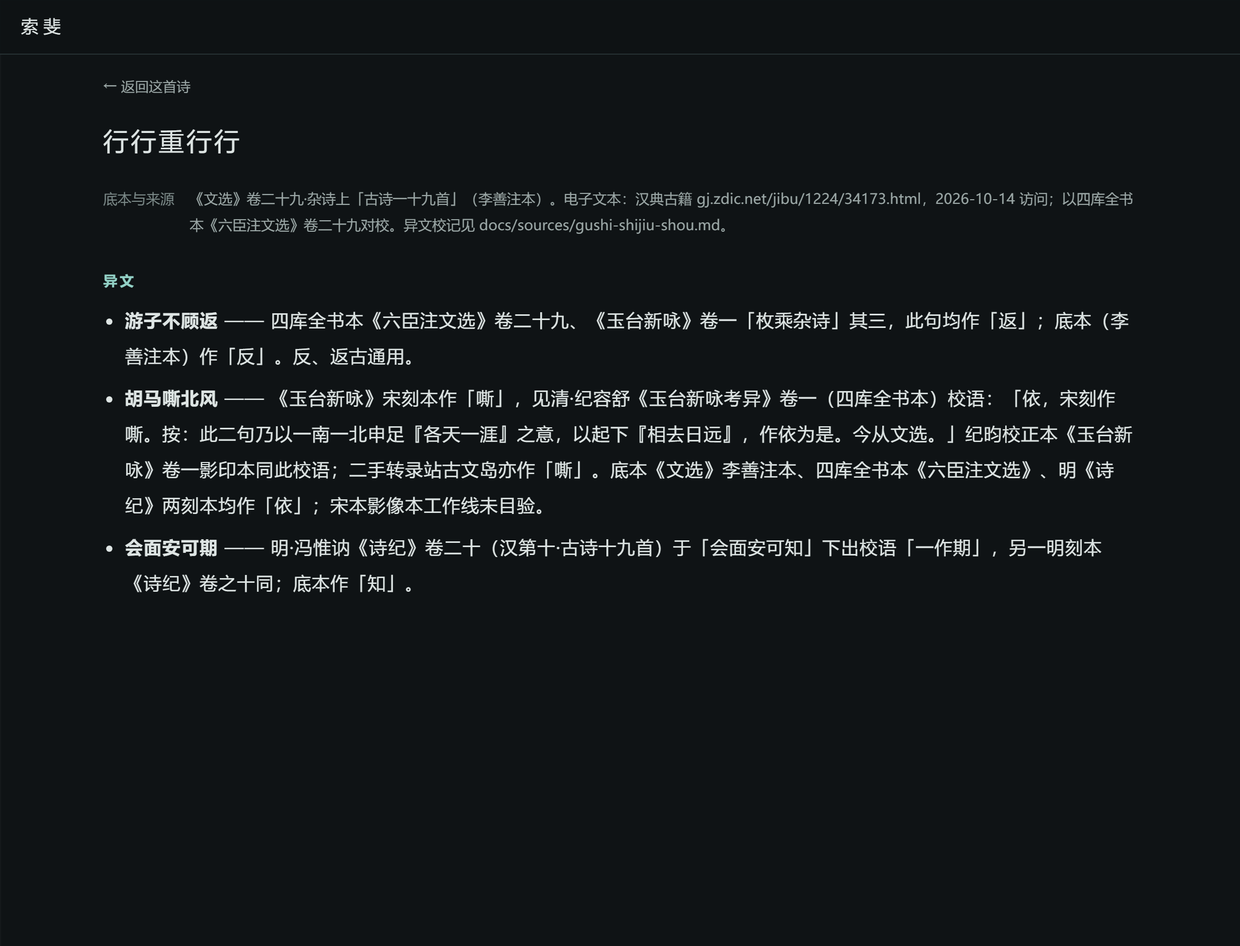
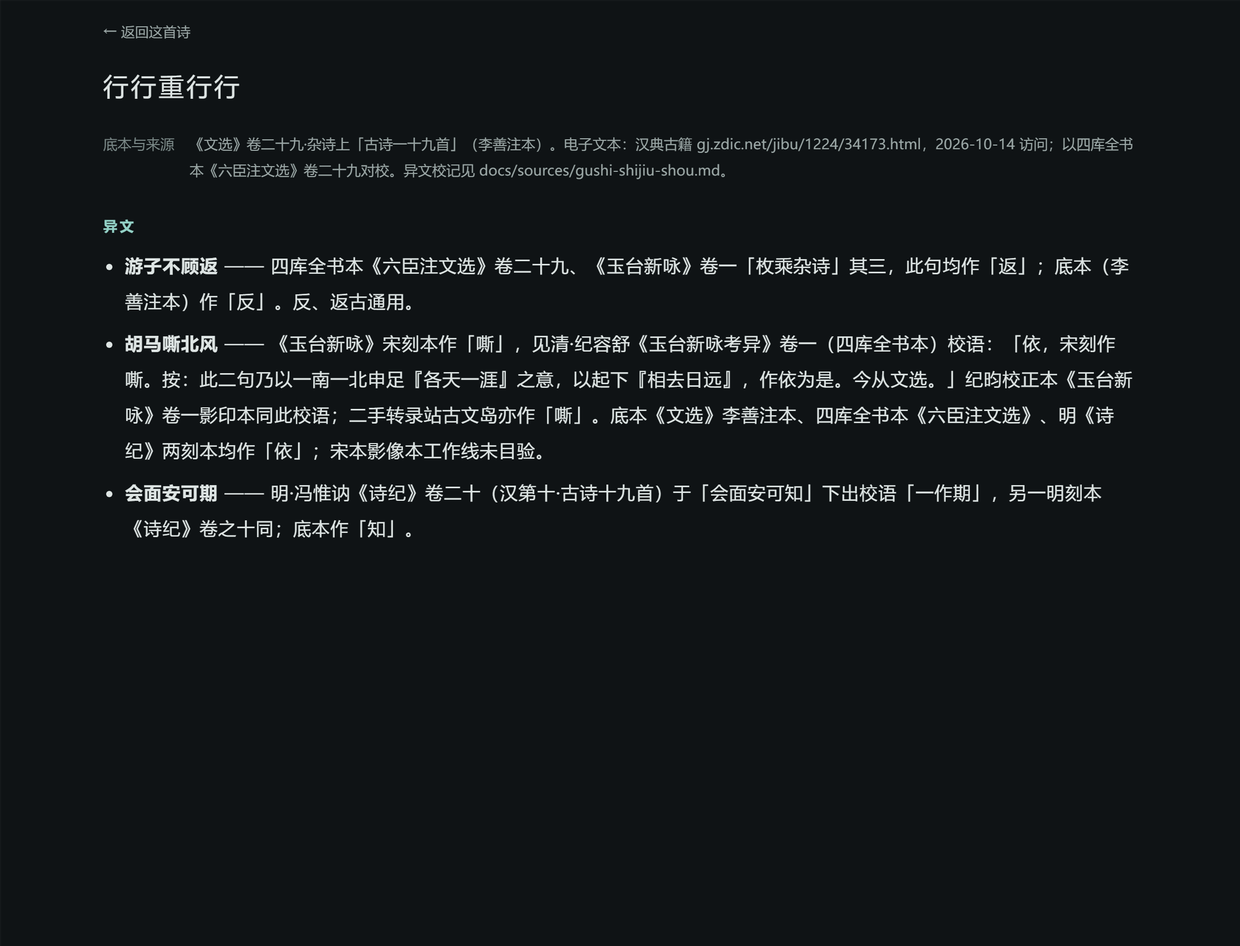
fix(web): 删除全局外壳顶栏（目录/诗/详情三页的冗余产品壳；用户预览时指出）
**偏差**：每页顶部还有一条 sticky 的「索斐」横栏（外壳 .site-header + site-title）。
采纳锚写着**目录页顶部只有「关于」这一个入口、不重复应用名**
（items/app-ui/history/round-2026-10-15-hub-align/；Android 端也没有这条横栏）
⇒ 它在目录/诗/详情三页上都是冗余产品壳，不是采纳 UI。

**修法（消除冗余，不是 CSS 隐藏）**：
- web/index.html：删整个 `<header class="site-header">`。
- web/app/main.js：删 els.siteHeader 与「关于页把它 hidden」那段（已没有东西可藏）。
- web/styles.css：删 .site-header / .site-title 规则（含窄屏那条）。
**没动**：关于入口、顶部返回（← 目录 / ← 返回这首诗）、详情导航；浏览器 `<title>` 与 manifest.json 名称照旧；
关于页**自己的**应用名页标题（about-app-name）照旧 —— 那是关于页内的页面标题，不是外壳品牌。

**测试**：把「index.html 里有外壳顶栏」**反转为没有**；四页全页扫描新增「无 .site-header / site-title」；
目录页断言**整页可见文本里「索斐」出现 0 次** + index-bar 里**只有「关于」一个入口**；
「外壳到了」的探针从 site-title 改为静态装载占位 / #view（错误态那几处同理）。

**证据**：e2e 438→442/442 EXIT 0；width 86/86（带图重跑，图顶部已无横栏）；md 对照 204/204；npm test 141/141；
doc-tables / bundled exit 0；4 张整页图（no-panel-*.png）**逐张亲眼看过**：目录顶部只有「关于」、
诗页/详情页顶部只有各自返回行、关于页只有自己的页标题。

diff --git a/web/app/main.js b/web/app/main.js
@@ -19,7 +19,6 @@ import {
 const els = {
   view: document.getElementById('view'),
   notices: document.getElementById('notices'),
-  siteHeader: document.querySelector('.site-header'),
 };
 
 export { APP_VERSION };
@@ -177,12 +176,10 @@ function maybeApplyUpdateOnIndex() {
 
 function renderView() {
   els.view.replaceChildren();
-  // ⚠ 关于页**隐藏 Web 外壳顶栏**（用户 2026-10-16 返修③，两种重复都在这一页）：
-  //  顶栏那行是「索斐 ＋ 站点资源版本 0.1.1」，而 A3 的关于页**自己**就给出应用名页标题
-  //  与同一串版本信息 ⇒ 不隐藏就会「品牌与版本各出现两次」（见 `tests/evidence/about-before.png`）。
-  //  该页另带「← 目录」返回，隐藏顶栏不影响导航；**只在这一页隐藏**，
-  //  目录页/诗页/详情页的顶栏语义一字不改（目录页仍未在别处重复应用名）。
-  els.siteHeader.hidden = false;
+  // ⚠ 2026-10-16：**全局外壳顶栏已整块删除**（原先是 sticky「索斐 ＋ 站点资源版本」那条）。
+  //  采纳锚：目录页顶部**只有「关于」**、不重复应用名（`round-2026-10-15-hub-align/`；Android 也无此栏）；
+  //  诗页/详情页各有返回工具栏；关于页自带应用名页标题 ⇒ 三页上它都是冗余产品壳。
+  //  于是原来那句「关于页把顶栏 hidden」也随之删掉——**已没有东西可藏**。
 
   if (state.error) {
     els.view.append(h('div', { class: 'view view--error', dataset: { test: 'view-error' } }, [
@@ -217,7 +214,6 @@ function renderView() {
       onBack: () => navigate(ROUTES.poem(state.view.id)),
     }));
   } else if (state.view.kind === 'about') {
-    els.siteHeader.hidden = true;   // 这一页自己给了品牌＋版本 ⇒ 去掉顶栏那一份重复（返修③）
     els.view.append(renderAboutPage({
       appVersion: APP_VERSION,
       doc: state.doc,

diff --git a/web/styles.css b/web/styles.css
@@ -152,28 +152,10 @@ button {
   cursor: pointer;
 }
 
-/* ---------- 顶栏 ---------- */
-
-.site-header {
-  position: sticky;
-  top: 0;
-  z-index: 20;
-  display: flex;
-  align-items: center;
-  gap: 0.75rem;
-  flex-wrap: wrap;
-  padding: 0.7rem var(--pad);
-  background: var(--bg-sticky);
-  border-bottom: 1px solid var(--line);
-}
-
-.site-title {
-  font-family: var(--font-title);
-  font-size: 1.02rem;
-  letter-spacing: var(--brand-ls);
-  color: var(--text);
-  white-space: nowrap;
-}
+/* ---------- （已删）全局顶栏 ----------
+ * ⚠ 2026-10-16：这里原来有 `.site-header`（sticky）与 `.site-title` 两条规则——那条横栏已从产品壳
+ *  整块删除（目录页顶部只留「关于」；诗页/详情页有自己的返回工具栏；关于页自带应用名页标题）。
+ *  这里不再留死规则。 */
 
 /* ---------- 按钮（环形芯片，只有颜色过渡） ---------- */
 
@@ -769,10 +751,6 @@ button {
 /* ---------- 窄屏 ---------- */
 
 @media (max-width: 420px) {
-  .site-header {
-    gap: 0.5rem;
-  }
-
   /* ⚠ 关于页的版本组**不**在窄屏落成两行：采纳锚（A3／V3）在 320 视口下仍是一行一条
    *   （标签列 68.22＋值列固定在同一条竖线上），所以这里没有 `1fr` 折列规则。 */
 }

diff --git a/web/index.html b/web/index.html
@@ -14,10 +14,11 @@
   <link rel="stylesheet" href="styles.css">
 </head>
 <body>
-  <header class="site-header">
-    <a class="site-title" href="#/" data-test="site-title">索斐</a>
-  </header>
-
+  <!-- ⚠ 2026-10-16：**不再有全局外壳顶栏**（原来这里是一条 sticky 的「索斐」横栏＋版本徽标）。
+       目录页的采纳锚写着「顶部只有『关于』这一个入口」、**不重复应用名**（`round-2026-10-15-hub-align/`，
+       Android 端也没有这条横栏）；诗页/详情页各有自己的返回工具栏；关于页自带应用名页标题
+       ⇒ 那条横栏在三页上都是**冗余产品壳**，已整块删除（不是 CSS 隐藏）。
+       浏览器标签标题与 manifest 名称（`<title>`／`manifest.json`）与本条无关，保留不动。 -->
   <div id="notices" class="notices" data-test="notices"></div>
 
   <main id="view" class="view-host" data-test="view">

diff --git a/docs/status.md b/docs/status.md
@@ -5,11 +5,15 @@
 - 更新时间：**2026-10-16**（承接负责人 `bff673a1-4708-41bf-ac1d-4a93f3af2800` 维护）
 - 阶段：**线上已是 `v0.1.1`（止损版）**；**本地实施与核验阶段已收口**（S1–S4＋**最新构建四页复核**），**发布（S5）仍未授权**。
 - **交付包（用户只需看这一份，别在多台账里找）**：[`docs/local-stage-delivery.md`](local-stage-delivery.md) —— 候选位置／构建身份与签名（**debug≠release**）、已验证据与原型差异、全套最终复跑 exit／数、19 首与 24 异文保真、新旧格式与旧 ID 影响、已知未验、授权边界、下一步（只剩用户看效果或单独发布决定）。
-- **用户看效果的本机入口（当前行，2026-10-16 由负责人重新起在新端口＝新 origin）**：**http://127.0.0.1:60863/**（**只绑 loopback**，非部署；`node serve` PID `56960`，日志 `C:/Users/wsqsy/AppData/Local/Temp/lead-sopho/preview-60863.log`）。我亲核：`/`、`/content.json`、`/app/main.js` 均 **HTTP 200**；发的 `index.html` 里**没有**页脚面板与版本徽标、`app/main.js` 里**没有** `renderStatus`。
+- **用户看效果的本机入口（当前行，2026-10-16 由负责人重新起在新端口＝新 origin）**：**http://127.0.0.1:59911/**（**只绑 loopback**，非部署；`node serve` PID `71896`，日志 `C:/Users/wsqsy/AppData/Local/Temp/lead-sopho/preview-59911.log`）。我亲核：`/` **HTTP 200**；它发的 `index.html` 里**没有**外壳顶栏（`site-header`/`site-title`）**也没有**页脚面板（`id="status"`）；`app/main.js` 里没有 `renderStatus`。
+  - ⚠ **为何要换端口（第二次）**：SW 缓存按 **origin ＋ `APP_VERSION`** 算键，而修偏**没有递增 `APP_VERSION`**（不是发布）⇒ 同一个 origin 会继续吃旧壳（旧 SW 控制的还是那份带面板/带横栏的缓存），**刷新不一定就更新**。新端口＝**新 origin** ⇒ 一定是修后的样子，且**没有碰任何别的站点的缓存**。
+  - ⚠ 之前那两条 `http://127.0.0.1:60863/`（PID 56960）与 `http://127.0.0.1:64780/`（PID 68652）**仍在跑且没被 kill**（按先前交代），但它们那两个 origin 都可能仍显示**旧壳**；**评审请用新端口**。
+  - 口径说明：Web 侧**没有** Android 那种「检查更新」按钮（离线更新是 Android 端能力）；**真实内容里没有笔记** ⇒ 诗页／详情页**不会出现笔记入口**（内容事实）。
   - ⚠ **为什么要换端口**：SW 缓存按 **origin ＋ `APP_VERSION`** 算键，而本次修偏**没有递增 `APP_VERSION`**（不是发布）⇒ 同一个 origin 会继续拿旧壳（旧 SW 控制的还是那份带面板的缓存），**刷新不一定就更新**。新端口＝**新 origin** ⇒ 一定是修后的样子，且**没有碰任何别的站点的缓存**。
   - ⚠ 旧那条 `http://127.0.0.1:64780/`（PID 68652）**仍在跑且没被 kill**，但它那个 origin 很可能仍显示**旧壳（带面板）**；**评审请用新端口**。要它变新只能清该 origin 的站点数据或递增 `APP_VERSION`（两者都要人拍板）。
   - 口径说明：Web 侧**没有** Android 那种「检查更新」按钮（离线更新是 Android 端能力）；**真实内容里没有笔记** ⇒ 诗页／详情页**不会出现笔记入口**（内容事实）。
-- **最新构建上的四页复核已补完（2026-10-16，收口前最后一块设备证据）**：[`docs/reviews/ui-review/materials-android-latest-4pages/`](reviews/ui-review/materials-android-latest-4pages/README.md)（**11 张 PNG ＋ dump 原文 ＋ 证书 ＋ 三次构建日志**）——构建基底 `1291063`（⚠ **其后只动 `docs/`＋`tests/`，故被测应用代码＝主树当前代码**；我核过 `android/ content/ schema/ web/` 零差异），APK **debug 签名 `CN=Android Debug`**（⚠ **不是** `CN=Suofei`），**四页对照采纳锚全部命中**。我复核其自证：03≡04、异常 dump≡关于 dump（md5）、无 instrumented 残留。⚠ **只记账的一条**：复核时**第一次**冷启动后一条 `input tap` 意外落到关于页（dump 与正常关于页**逐字节相同** ⇒ 稳定页），**受控复跑 6 次不复现、无 crash/ANR** ⇒ **不据此宣称「目录页会乱跳」**，按待观察记账。
+- **最新构建上的四页复核已补完（2026-10-16，收口前最后一块设备证据）**：[`docs/reviews/ui-review/materials-android-latest-4pages/`](reviews/ui-review/materials-android-latest-4pages/README.md)（**11 张 PNG ＋ dump 原文 ＋ 证书 ＋ 三次构建日志**）——构建基底 `1291063`（⚠ **其后只动 `docs/`＋`tests/` 与 Web 侧，故被测 Android 应用代码＝当时主树**），APK **debug 签名 `CN=Android Debug`**（⚠ **不是** `CN=Suofei`），**四页对照采纳锚全部命中**。我复核其自证：03≡04、异常 dump≡关于 dump（md5）、无 instrumented 残留。⚠ **只记账的一条**：复核时**第一次**冷启动后一条 `input tap` 意外落到关于页（dump 与正常关于页**逐字节相同** ⇒ 稳定页），**受控复跑 6 次不复现、无 crash/ANR** ⇒ **不据此宣称「目录页会乱跳」**，按待观察记账。
+- **Web 产品壳两处冗余已移除（2026-10-16，均为用户在本机预览时发现、均为我的验收漏项）**：① **页脚诊断面板**（缓存名／SW／内容体积与取到时间／格式／次序／网络／配额＋三个调试动作＋长诚实说明）整块从产品 UI 删掉（非 CSS 隐藏）；② **全局外壳顶栏**（sticky「索斐」横栏＋版本徽标）也整块删掉——采纳锚写着目录页顶部**只有「关于」**、不重复应用名，Android 端同样无此栏。⇒ 现在：目录顶部只有「关于」；诗页/详情页只有各自的返回工具栏；关于页只有它自己的页标题；**版本只在关于页**。⚠ **别把这两条当成「已全部修完」的自证**：它们是**用户先发现、我后修**的，教训已记：负向断言必须盖整份文档（header/main/footer/notice），只查 `view-*` 子树会恒真。
 - **现在的状态（唯一入口口径；2026-10-16 由接手负责人 `bff673a1…` 就地更正）**：**已授权范围的工程实现已落地**——规则 S1 ＋ 字段升版 S2 ＋ 19 首迁移 S3 ＋ 本项目模拟器验收 S4 均已在 master（`formatVersion: 2`；`npm test` **132/132 真 exit 0**；`check-bundled-content`／`check-doc-tables` 均 exit 0，均为我 2026-10-16 亲跑）。**发布仍暂停**（S5 未授权：不打 tag／不部署 Pages／不建 Release／不改远端最新版；**线上仍是 `v0.1.1`**）。
   ⚠ **上面那句「页面规格讨论中／内容格式 A 路线待审／生产实施与发布暂停／当前无任何线在跑」已被取代**（就地留痕，不再作为口径）：四页主方向与字段／ID／规则**已定**，实施按 [`docs/design/implementation-plan.md`](design/implementation-plan.md) 的 S1–S5 推进；**该文件开头那句「当前没有新授权」也已作废**——授权见 `q-2d2e3a1c`。
 - **刚完成（两条工单已合并并自核，2026-10-16 晚）**：① `f8ab5118…` **Web 关于页 A3/V3 对齐**（commit `462126b`，树 `wt/web-a3v3-fa338b82`；**已选修偏、不是新设计**）② `c531043e…` **用最新合并代码重建＋`emulator-5556` 复核关于页**（commit `1ccf430`，树 `wt/child-a4ed5a79`）。合并＝`884ae36`／`a4602fd`。**并入后我在 master 上自己复跑（真 exit，无管道）**：Web e2e **400/400 EXIT 0**、Android 单测 **143/143 EXIT 0**（`--no-build-cache --rerun-tasks`，24 任务真执行）、`npm test` **132/132 exit 0**、`check-bundled-content`／`check-doc-tables` 均 exit 0。**图我亲眼看**：Android `00-about-uptodate.png`／`03-about-idle-initial-INSTRUMENTED.png`、Web `03c-about.png`／`about-320.png`。⇒ **S4 求审的 D1（标签含「来源」）与 D2（「一句话说明」／「诚实的限制」）已修复且两端一致**。⚠ 交付路由已改到负责人（旧父会话 `1b3f2129…` 的 notify 注册无法取消，已告知它不要合并/改主树）。

diff --git a/docs/local-stage-delivery.md b/docs/local-stage-delivery.md
@@ -41,7 +41,7 @@
 - **Web 四页**：`web/tests/evidence/`（如 `about-after.png`／`index-after.png`，关于页修偏后的实拍）＋ `web/tests/artifacts/`（每次跑 e2e 自动刷新全套）＋ 宽度 4 图 `docs/design/width-audit/{about,detail}-{320,1180}.png`。
 - **原型（采纳锚，对照用）**：`items/app-ui/history/round-*/q-*.html` ＋ 各轮 `ARCHIVE.md`。
 - **跨端块标记边界的正反例（新增）**：`tests/fixtures/contract/md-boundary.json`（30 例，**编译器／Web／Android 三方同读**）—— 与 §6.5 的收严配套，见 §3。
-- **「四页都没有页脚诊断面板」的整页证据（新增）**：`web/tests/evidence/no-panel-{index,poem,detail,about}.png`（**整页截图**，每张先滚到底；我**逐张亲眼看过**）＋ 可复跑断言在 e2e 的 §1c-3（见 §6.9）。
+- **「四页都没有页脚面板／没有外壳顶栏」的整页证据（新增）**：`web/tests/evidence/no-panel-{index,poem,detail,about}.png`（**整页截图**，每张先滚到底；我**逐张亲眼看过**）＋ 可复跑断言在 e2e 的 §1c-3（见 §6.9）。
 
 **与原型差异（逐条，都不是缺陷）**
 1. **原型是静态 HTML 材料，实装是真实内容＋真实交互**（例：关于页「检查站点更新」真发请求、真显示在线/缓存状态）。
@@ -58,7 +58,7 @@
 | 检查 | 结果 | 谁跑的 |
 |---|---|---|
 | `npm test` | **141 / 141，exit 0** | 负责人亲跑 |
-| Web e2e（无头 Chromium） | **438 / 438，EXIT 0**（含新增的 §1c-3 **全页面**负向扫描） | 负责人亲跑 |
+| Web e2e（无头 Chromium） | **442 / 442，EXIT 0**（含 §1c-3 **全页面**负向扫描：面板＋外壳顶栏） | 负责人亲跑 |
 | Android 单元测试（`--no-build-cache --rerun-tasks`） | **146 / 146，EXIT 0**（19 个测试类，0 失败 0 跳过） | 负责人亲跑 |
 | Web Markdown 契约对照 | **204 / 204，EXIT 0**（含新增的 30 例块标记边界三方对账） | 负责人亲跑 |
 | 编译器侧契约绑定 | **6 / 6，EXIT 0** | 负责人亲跑 |
@@ -115,6 +115,9 @@
    **机制一个没删**（否则就是为截图删功能）：SW 离线缓存、后台更新检测、「有新版本→点刷新」必要提示、加载/失败可见反馈照旧；诊断事实改由测试钩子 `window.__app.summary()`（非产品 UI）读取。
    **断言改成查整份文档，不是某个 `view` 子树**（此前那条查 `view-about` 后代的负向断言就**恒真**过）：e2e §1c-3 对四页逐个断言 14 个诊断词汇不存在、`<footer>` 数 0、status 元素 0、调试动作 0，**并带正向对照**（关于页确实显示 `v0.1.1`、目录确实渲染 19 首）⇒ 不会因「把版本/内容整个删掉」而假绿。证据：`web/tests/evidence/no-panel-{index,poem,detail,about}.png`（整页、先滚到底、我逐张看过）。
 10. **顺带被 §6.9 暴露、并一并修掉的真缺陷**：`afterViewChange` 原来只等**一帧**再恢复目录滚动位置；之前是页脚面板的 DOM 写入恰好把布局顶完才显得正确。面板移除后，从诗页返回目录会**回到顶部**（e2e 实测：捕获 373、回来 0）⇒ 改成等**两帧**（`web/app/main.js`），e2e 那条断言随即恢复通过。
+11. **~~全局外壳顶栏~~ ⇒ 已修（同轮，用户接着指出的第二处偏差）**：每页顶部还有一条 sticky 的「索斐」横栏（外壳 `.site-header`＋`site-title`）。采纳锚写着**目录页顶部只有「关于」这一个入口、不重复应用名**（`round-2026-10-15-hub-align/`；**Android 端也没有这条横栏**）⇒ 它在目录/诗/详情三页上都是**冗余产品壳**，已整块删除（`index.html` 删整个 `<header>`；`main.js` 删 `els.siteHeader` 与「关于页把它 hidden」那段；`styles.css` 删两条规则）。
+    **没动**：关于入口、顶部返回（← 目录／← 返回这首诗）、详情导航；浏览器 `<title>` 与 `manifest.json` 名称照旧；关于页**自己的**应用名页标题（`about-app-name`）照旧——它是关于页内的页面标题，不是外壳品牌。
+    **断言**：e2e 从「index.html 里有外壳顶栏」**反转为没有**；四页扫描新增「无 `.site-header`／`site-title`」；目录页断言**整页可见文本里「索斐」出现 0 次**、`index-bar` 里**只有「关于」一个入口**；关于页断言仍「索斐恰好一次」（那一份就是它自己的页标题）。
 
 ---
 
@@ -129,6 +132,6 @@
 
 ## 8. 下一步
 
-1. **用户看实际效果（推荐）**：**本机预览 http://127.0.0.1:60863/**（新端口＝**新 origin**，因为本次修偏没递增 `APP_VERSION`，旧端口那个 origin 会继续拿旧壳；**没有清任何站点的缓存**）；图片/报告入口：Android `docs/reviews/ui-review/materials-android-latest-4pages/`，Web `web/tests/evidence/`（含 4 张「四页无面板」整页图）与 `docs/design/width-audit/`。
+1. **用户看实际效果（推荐）**：**本机预览 http://127.0.0.1:59911/**（新端口＝**新 origin**，因为本次修偏没递增 `APP_VERSION`，旧端口那些 origin 会继续拿旧壳；**没有清任何站点的缓存**）；图片/报告入口：Android `docs/reviews/ui-review/materials-android-latest-4pages/`，Web `web/tests/evidence/`（含 4 张「四页无面板、无外壳顶栏」整页图）与 `docs/design/width-audit/`。
 2. **用户单独决定是否发布**（S5）：要发布才需要新授权（那时才读签名密钥、打 tag、部署 Pages）。
 3. 若用户提出视觉调整（§6 的 1–3、6），按新反馈开一轮；**不再主动开无穷原型**。

diff --git a/web/tests/evidence/README.md b/web/tests/evidence/README.md
@@ -41,7 +41,9 @@ cd android && JAVA_HOME='C:/Users/wsqsy/.jdks/ms-17.0.17' ./gradlew testDebugUni
 
 ---
 
-# 页脚诊断面板移除的证据（2026-10-16，**用户实际预览时发现它还在**）
+# 页脚诊断面板 ＋ 全局外壳顶栏 移除的证据（2026-10-16，**用户实际预览时发现的**）
+
+## ① 页脚诊断面板
 
 **缺陷**：整块「站点资源版本／缓存名／SW／内容体积与取到时间／格式／次序／网络／持久化配额」＋三个调试动作
 （检查站点更新／请求持久化存储／重新取内容）＋一段长诚实说明，**在四页都显示**。它是 Web 骨架期的
@@ -50,14 +52,24 @@ cd android && JAVA_HOME='C:/Users/wsqsy/.jdks/ms-17.0.17' ./gradlew testDebugUni
 `web/app/main.js` 删掉 `renderStatus()` 与那三个动作，`web/styles.css` 删掉 `.status*`／`.app-version` 规则。
 **机制一个没删**：SW 离线缓存、后台更新检测、「有新版本→点刷新」必要提示、加载/失败可见反馈照旧。
 
-## 图（全部**用 read 工具亲眼看过**；**整页截图**，每张都先 `scrollTo(bottom)` 再截）
+## ② 全局外壳顶栏（同轮、用户接着指出的第二处偏差）
+
+**缺陷**：每页顶部还有一条 sticky 的「索斐」横栏（外壳 `.site-header`＋`site-title`）。采纳锚写着
+**目录页顶部只有「关于」这一个入口、不重复应用名**（`items/app-ui/history/round-2026-10-15-hub-align/`，
+Android 端也没有这条横栏）⇒ 那条横栏在目录/诗/详情三页上都是**冗余产品壳**。
+**修法**：`web/index.html` 删整个 `<header class="site-header">`；`main.js` 删 `els.siteHeader` 与
+「关于页把它 hidden」那段（**已没有东西可藏**）；`styles.css` 删 `.site-header`／`.site-title` 规则。
+**没动**：关于入口、顶部返回（← 目录／← 返回这首诗）、详情导航；浏览器 `<title>` 与 `manifest.json` 名称照旧；
+关于页自己的应用名页标题（`about-app-name`）照旧。
+
+## 图（四张**同时**证明上面两件事；全部**用 read 工具亲眼看过**；**整页截图**，每张先 `scrollTo(bottom)` 再截）
 
 | 文件 | 是什么 | 看出什么 |
 |---|---|---|
-| `no-panel-index.png` | 目录页（真实内容 19 首） | 顶栏只有「索斐」（**没有版本徽标**）；页面**在最后一首诗之后就直接结束**——没有面板、没有缓存名/配额、没有长诚实说明 |
-| `no-panel-poem.png` | 诗页（`行行重行行`） | 顶栏只有「索斐」；「← 目录／详情」行、题名与 8 行正文居中；正文之后**没有任何页脚块** |
-| `no-panel-detail.png` | 详情页（含 `detail` 的那首） | 题名左对齐／「底本与来源」带标签／`异文` 三个列表项；之后**没有页脚块** |
-| `no-panel-about.png` | 关于页 | 外壳顶栏按 A3 锚**依旧隐藏**（「索斐」只作为页标题出现）；只有「应用版本／内容版本／完整 URL」三行**已选**字段；**没有**长限制说明、**没有**「检查更新」按钮、没有面板 |
+| `no-panel-index.png` | 目录页（真实内容 19 首） | 顶部**只有右侧一个「关于」**、**没有「索斐」横栏**；页面**在最后一首诗之后就直接结束**——没有面板、没有缓存名/配额、没有长诚实说明 |
+| `no-panel-poem.png` | 诗页（`行行重行行`） | 顶部直接是「← 目录／详情」行（**上方没有外壳品牌横栏**）；题名与 8 行正文居中；正文之后**没有任何页脚块** |
+| `no-panel-detail.png` | 详情页（含 `detail` 的那首） | 顶部直接是「← 返回这首诗」（**无外壳横栏**）／题名左对齐／「底本与来源」带标签／`异文` 三个列表项；之后**没有页脚块** |
+| `no-panel-about.png` | 关于页 | **没有外壳横栏**，页面只有自己的「← 目录」＋页标题「索斐」（**整页只出现一次**）＋三行**已选**字段；**没有**长限制说明、**没有**「检查更新」按钮、没有面板 |
 
 ## 可复跑的断言（比图更硬）
 
@@ -66,6 +78,8 @@ cd android && JAVA_HOME='C:/Users/wsqsy/.jdks/ms-17.0.17' ./gradlew testDebugUni
 
 - 全页可见文本里没有 14 个诊断面板词汇（站点缓存／Service Worker／内容体积／内容生成时间／内容取到时间／
   内容格式版本／组内次序／持久化存储／配额／检查站点更新／请求持久化存储／重新取内容／诚实说明…）；
+- **没有全局外壳顶栏**（`.site-header`／`site-title` 在四页都不存在），外壳只剩视图区＋通知区；
+- 目录页**整页可见文本里「索斐」出现 0 次**、顶部 `index-bar` 里**只有「关于」一个入口**；
 - 「站点资源版本」**只允在关于页出现且恰好一次**（它在那儿是采纳锚的合法可见文字，所以单列）；
 - 页面里 `<footer>` 数 **0**、`[data-test^="status"]` 数 **0**、三个调试动作 **0**；
 - **正向对照**（防「把版本/内容整个删掉也能过」）：关于页确实显示 `v0.1.1`、目录确实渲染出 19 首。
